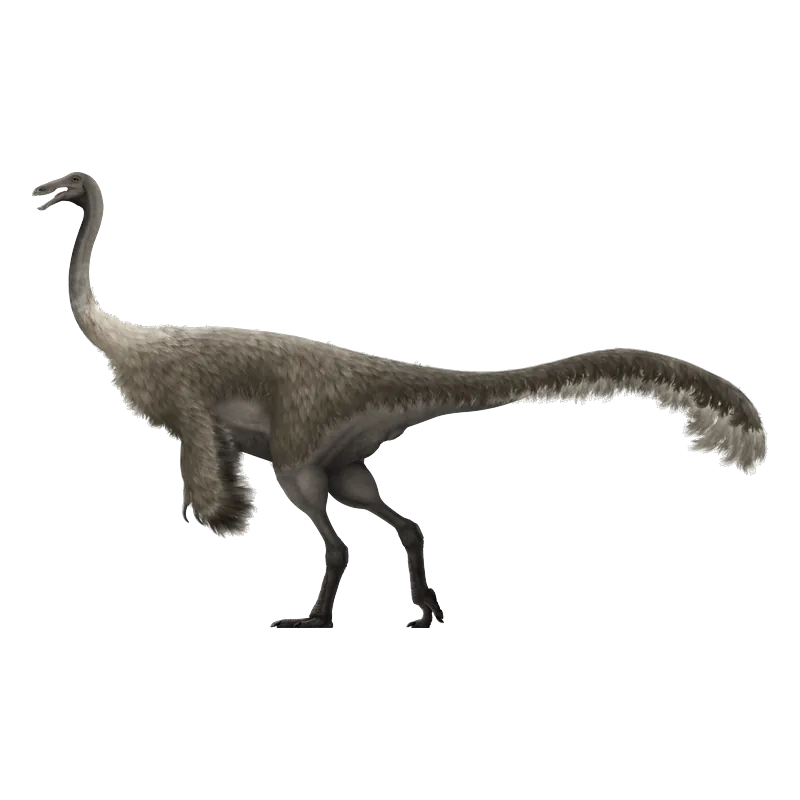
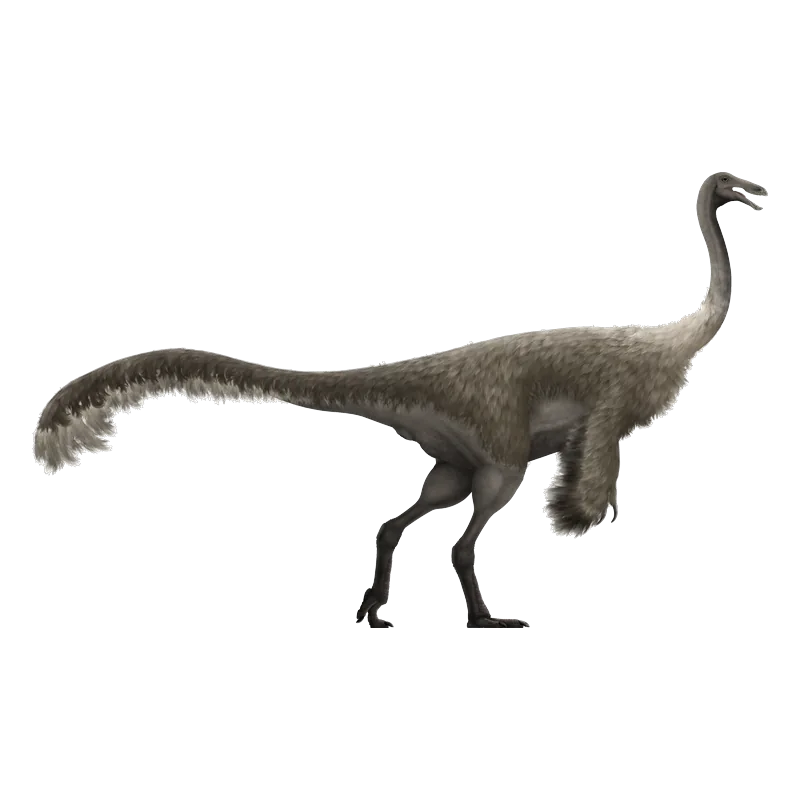
Every Dino faces right, card and chip alike
Tail to the left, head to the right, on the painted card and on the
silhouette chip — so a child never sees an animal turn round between the
two pictures of it, and the 👁 switch changes the rendering and nothing
else.

Two paintings did not: PaleoNeolitic's Gallimimus and TotalDino's
Pteranodon both face left in their sources. make-art.py gained a MIRROR
set and flips them on the way in, so the next left-facing source is one
line. Flipping a picture is a modification, and the Credits and
art/README.md say so for each.

cacheVersion 3 → 4: two cards changed under paths a browser may hold.
Verified after the raise — the store reopened at v4 and every card was
fetched fresh.

Changed region(s): [[0.0312, 0.2188, 0.9688, 0.8125]]

diff --git a/apps/dino/src/audioCache.ts b/apps/dino/src/audioCache.ts
@@ -10,6 +10,8 @@
 import { createAudioCache } from '@sawt/audio-cache'
 
 /*
+ * 4: two cards were mirrored in place to face right like the other eight —
+ * the Gallimimus and the Pteranodon came from sources that face left.
  * 3: the cards were rebuilt at 800px when the board's cards doubled in size,
  * at the same five .webp paths — a cached blob wins over the network, so
  * without this raise a machine that had the 400px ones would keep drawing
@@ -25,4 +27,4 @@ export const {
 	idbClear,
 	getAudioBlob,
 	ensureCached,
-} = createAudioCache('dino-audio', 3)
+} = createAudioCache('dino-audio', 4)

diff --git a/apps/dino/tools/make-art.py b/apps/dino/tools/make-art.py
@@ -30,7 +30,7 @@ import sys
 from pathlib import Path
 
 try:
-	from PIL import Image
+	from PIL import Image, ImageOps
 except ImportError:
 	sys.exit('Pillow is needed: python3 -m pip install Pillow')
 
@@ -45,6 +45,13 @@ QUALITY = 82
 MARGIN = 0.04       # share of the frame left empty around the animal
 SOURCES = ('.png', '.webp', '.jpg', '.jpeg')
 
+# Every animal faces right — tail to the left, head to the right — on the
+# card and on the chip alike, so a child never sees one turn round between
+# the two. TotalDino paints facing right; these sources do not, and are
+# flipped on the way in. Mirroring is a modification the licence requires
+# declaring: the README's Credits says so for each.
+MIRROR = {'gallimimus', 'pterodactyl'}
+
 
 def source_for(code: str) -> Path | None:
 	return next((p for e in SOURCES if (p := ART / f'{code}{e}').exists()), None)
@@ -52,6 +59,8 @@ def source_for(code: str) -> Path | None:
 
 def build(src: Path, dst: Path) -> str:
 	im = Image.open(src).convert('RGBA')
+	if src.stem in MIRROR:
+		im = ImageOps.mirror(im)
 	# trim to what is actually drawn: source art is usually padded, and padding
 	# is what makes one animal look smaller than the next on the board
 	box = im.getbbox()
@@ -95,7 +104,7 @@ def main() -> None:
 		if args.check:
 			print(f'  {code:<16} {src.name}' + ('' if chip.exists() else '   (no chip)'))
 			continue
-		print(f'  {code:<16} {build(src, OUT / f"{code}.webp")}' + ('' if chip.exists() else '   (no chip)'))
+		print(f'  {code:<16} {build(src, OUT / f"{code}.webp")}' + ('  mirrored' if code in MIRROR else '') + ('' if chip.exists() else '   (no chip)'))
 
 	# either gap is a broken board: no source is a blank card, no chip is a
 	# blank entry in the ⚙ checklist. Say so, loudly, after building the rest

diff --git a/apps/dino/art/README.md b/apps/dino/art/README.md
@@ -5,7 +5,9 @@ assets** — the app ships only the WebP under `public/dino/`, never these — a
 they are the same idea as Anthem's `midi/`: keep the original, so a card can
 always be rebuilt or checked against where it came from.
 
-`tools/make-art.py` turns everything here into cards.
+`tools/make-art.py` turns everything here into cards. Every card faces right,
+tail to the left; a source that faces left is listed in the tool's `MIRROR`
+set and flipped on the way in.
 
 **The files themselves are not committed** (see `.gitignore`). They are 2–4 MB
 each against the 8–11 KB they become, and the repository would grow by a few
@@ -19,10 +21,10 @@ table, which is enough to fetch them again exactly.
 | `triceratops.png` | [Triceratops TD.png](https://commons.wikimedia.org/wiki/File:Triceratops_TD.png) | TotalDino | [CC BY 4.0](https://creativecommons.org/licenses/by/4.0/) |
 | `velociraptor.png` | [Velociraptor TD.png](https://commons.wikimedia.org/wiki/File:Velociraptor_TD.png) | TotalDino | [CC BY 4.0](https://creativecommons.org/licenses/by/4.0/) |
 | `brontosaurus.png` | [Brontosaurus TD.png](https://commons.wikimedia.org/wiki/File:Brontosaurus_TD.png) | TotalDino | [CC0 1.0](https://creativecommons.org/publicdomain/zero/1.0/) |
-| `gallimimus.png` | [Gallimimus Restoration.png](https://commons.wikimedia.org/wiki/File:Gallimimus_Restoration.png) — **keyed here**: the download is opaque white, and the local copy has that background made transparent before `make-art.py` sees it | PaleoNeolitic | [CC BY 4.0](https://creativecommons.org/licenses/by/4.0/) |
+| `gallimimus.png` | [Gallimimus Restoration.png](https://commons.wikimedia.org/wiki/File:Gallimimus_Restoration.png) — **keyed here**: the download is opaque white, and the local copy has that background made transparent before `make-art.py` sees it. Faces left; mirrored by the tool | PaleoNeolitic | [CC BY 4.0](https://creativecommons.org/licenses/by/4.0/) |
 | `parasaurolophus.png` | [Parasaurolophus TD.png](https://commons.wikimedia.org/wiki/File:Parasaurolophus_TD.png) | TotalDino | [CC BY 4.0](https://creativecommons.org/licenses/by/4.0/) |
 | `brachiosaurus.png` | [Brachiosaurus TD.png](https://commons.wikimedia.org/wiki/File:Brachiosaurus_TD.png) | TotalDino | [CC BY-SA 4.0](https://creativecommons.org/licenses/by-sa/4.0/) |
-| `pterodactyl.png` | [Pteranodon TD.png](https://commons.wikimedia.org/wiki/File:Pteranodon_TD.png) — a Pteranodon; "pterodactyl" is the everyday word | TotalDino | [CC BY 4.0](https://creativecommons.org/licenses/by/4.0/) |
+| `pterodactyl.png` | [Pteranodon TD.png](https://commons.wikimedia.org/wiki/File:Pteranodon_TD.png) — a Pteranodon; "pterodactyl" is the everyday word. Faces left in the source; mirrored by the tool | TotalDino | [CC BY 4.0](https://creativecommons.org/licenses/by/4.0/) |
 | `spinosaurus.png` | [Spinosaurus TD.png](https://commons.wikimedia.org/wiki/File:Spinosaurus_TD.png) | TotalDino | [CC BY 4.0](https://creativecommons.org/licenses/by/4.0/) |
 
 To refetch, ask Commons for the original rather than guessing the upload path,

diff --git a/apps/dino/README.md b/apps/dino/README.md
@@ -201,10 +201,13 @@ because the licences are **not** all the same, and one blanket line would
 already be wrong for most of the twenty files.
 
 Every one of them was **modified**: trimmed, resized and centred in a square
-frame. The silhouettes were also recoloured from black — black is invisible
-on the dark-theme card — and **mirrored** to face right, the way the painted
-cards do, so a child switching between the two sees the same animal looking
-the same way. The artwork itself is otherwise unchanged.
+frame. **Every animal faces right** — tail to the left, head to the right —
+on the card and the chip alike, so a child switching between the two sees the
+same animal looking the same way. The silhouettes were all **mirrored** for
+that (PhyloPic draws facing left) and recoloured from black, which is
+invisible on the dark-theme card; two paintings were mirrored too, the
+Gallimimus and the Pteranodon, whose sources face left. The artwork itself
+is otherwise unchanged.
 
 ### The cards — paintings, nine by TotalDino
 
@@ -222,10 +225,10 @@ declaring.
 | `triceratops.webp` | [Triceratops TD.png](https://commons.wikimedia.org/wiki/File:Triceratops_TD.png) | [CC BY 4.0](https://creativecommons.org/licenses/by/4.0/) |
 | `velociraptor.webp` | [Velociraptor TD.png](https://commons.wikimedia.org/wiki/File:Velociraptor_TD.png) | [CC BY 4.0](https://creativecommons.org/licenses/by/4.0/) |
 | `brontosaurus.webp` | [Brontosaurus TD.png](https://commons.wikimedia.org/wiki/File:Brontosaurus_TD.png) | [CC0 1.0](https://creativecommons.org/publicdomain/zero/1.0/) |
-| `gallimimus.webp` | [Gallimimus Restoration.png](https://commons.wikimedia.org/wiki/File:Gallimimus_Restoration.png) — **PaleoNeolitic** | [CC BY 4.0](https://creativecommons.org/licenses/by/4.0/) |
+| `gallimimus.webp` | [Gallimimus Restoration.png](https://commons.wikimedia.org/wiki/File:Gallimimus_Restoration.png) — **PaleoNeolitic**, keyed and mirrored | [CC BY 4.0](https://creativecommons.org/licenses/by/4.0/) |
 | `parasaurolophus.webp` | [Parasaurolophus TD.png](https://commons.wikimedia.org/wiki/File:Parasaurolophus_TD.png) | [CC BY 4.0](https://creativecommons.org/licenses/by/4.0/) |
 | `brachiosaurus.webp` | [Brachiosaurus TD.png](https://commons.wikimedia.org/wiki/File:Brachiosaurus_TD.png) | [**CC BY-SA 4.0**](https://creativecommons.org/licenses/by-sa/4.0/) |
-| `pterodactyl.webp` | [Pteranodon TD.png](https://commons.wikimedia.org/wiki/File:Pteranodon_TD.png) | [CC BY 4.0](https://creativecommons.org/licenses/by/4.0/) |
+| `pterodactyl.webp` | [Pteranodon TD.png](https://commons.wikimedia.org/wiki/File:Pteranodon_TD.png), mirrored | [CC BY 4.0](https://creativecommons.org/licenses/by/4.0/) |
 | `spinosaurus.webp` | [Spinosaurus TD.png](https://commons.wikimedia.org/wiki/File:Spinosaurus_TD.png) | [CC BY 4.0](https://creativecommons.org/licenses/by/4.0/) |
 
 **The Tyrannosaurus and Brachiosaurus cards are share-alike.** Each is a

diff --git a/CHANGELOG.md b/CHANGELOG.md
@@ -173,6 +173,13 @@ In this version so far:
     Parasaurolophus chip is Scott Hartman's, the only whole-body one — the
     CC0 alternatives were the crested skull alone. The pterodactyl chip is
     Matt Dempsey's spread-wing Pteranodon, the shape every child knows.
+  · **Every Dino faces right, card and chip alike** — tail to the left, head
+    to the right. Two paintings did not: PaleoNeolitic's Gallimimus and
+    TotalDino's Pteranodon both face left in their sources, and are now
+    mirrored by `make-art.py` on the way in (a `MIRROR` set, so the next
+    left-facing source is one line). Declared in the Credits, since flipping
+    a picture is a modification; and `cacheVersion` 3 → 4, since two cards
+    changed under paths a browser may hold.
   · **Dino's silhouettes face right now**, the way TotalDino's paintings do.
     PhyloPic draws everything facing left, so until now the chip in ⚙ and
     the card on the board looked at each other. Mirrored in the normaliser,
